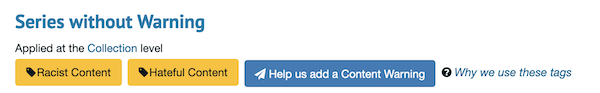
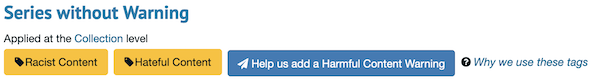
language tweaks; update readme images

Changed region(s): [[0.0, 0.4096, 0.99, 0.9398], [0.0, 0.0482, 0.36, 0.3614]]

diff --git a/public/assets/content_warnings.js b/public/assets/content_warnings.js
@@ -21,7 +21,7 @@ function applyContentWarnings(content_warnings, tag_wrapper, ext_link) {
   }
 }
 
-function setupContentWarningSubmit(modalId, text) {
+function setupContentWarningSubmit(modalId, text, btnText) {
   $(".noscript").hide();
   var target = $('#main-content h1');
   if ($('.content-warnings').length > 0 ) {
@@ -30,8 +30,8 @@ function setupContentWarningSubmit(modalId, text) {
   else if ($('.content-warning-external-link').length > 0) {
     target = $('.content-warning-external-link');
   }
-console.log(target)
-  target.after('<button id="content-warning-sub" class="btn btn-primary content-warning-submit"><i class="fa fa-paper-plane"></i>&nbsp;Help us add a Content Warning</button>');
+
+  target.after('<button id="content-warning-sub" class="btn btn-primary content-warning-submit"><i class="fa fa-paper-plane"></i>&nbsp;' + btnText + '</button>');
   $('#main-content').on('click', '#content-warning-sub', function(e) {
     e.preventDefault();
     contentWarningForm(text);
